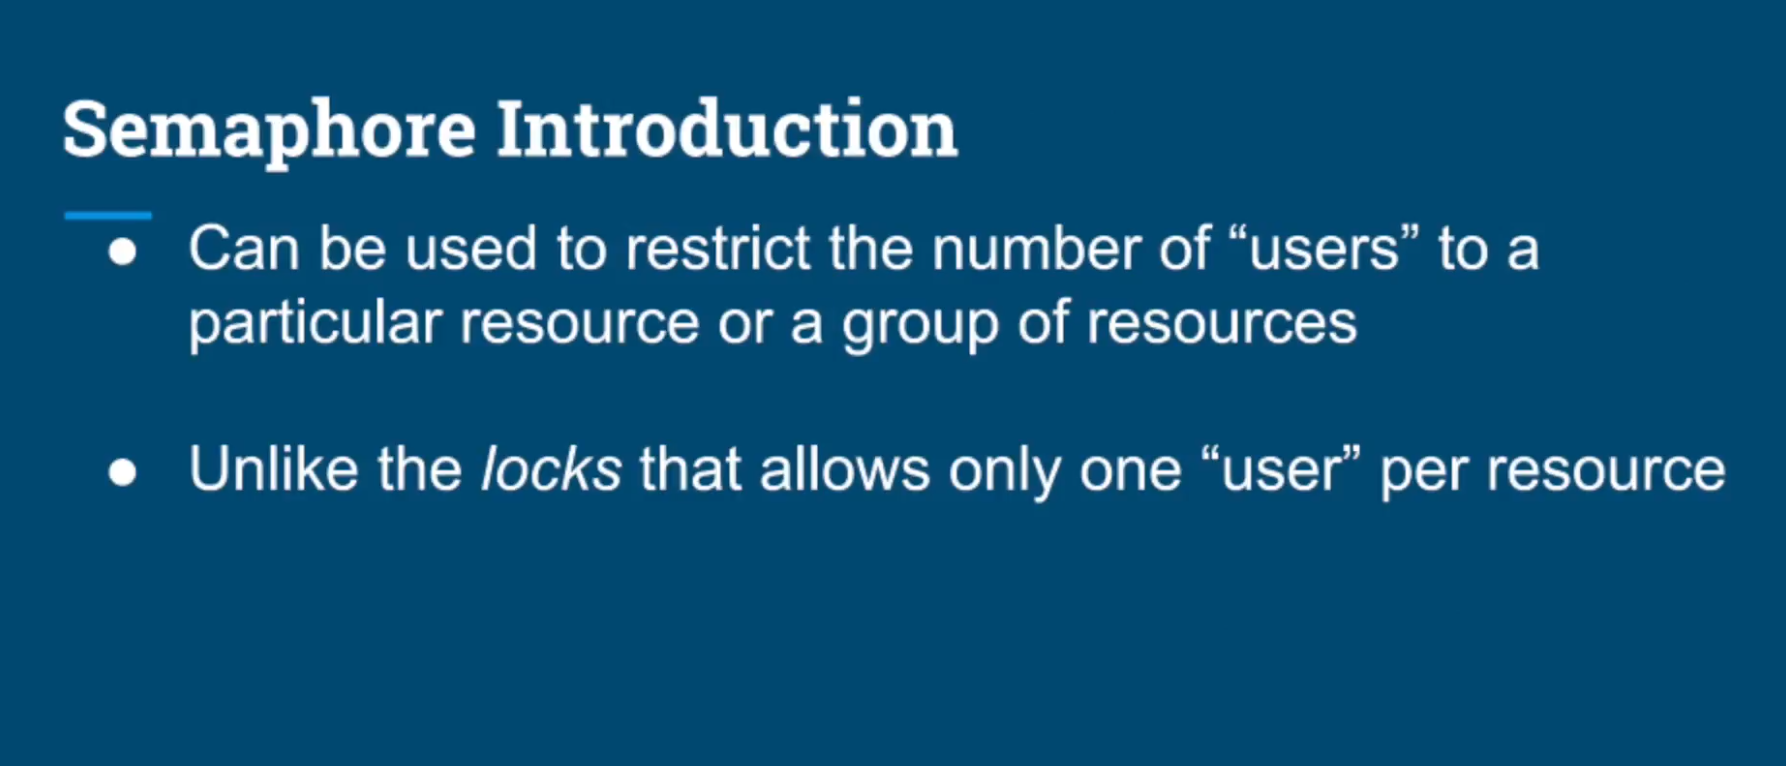
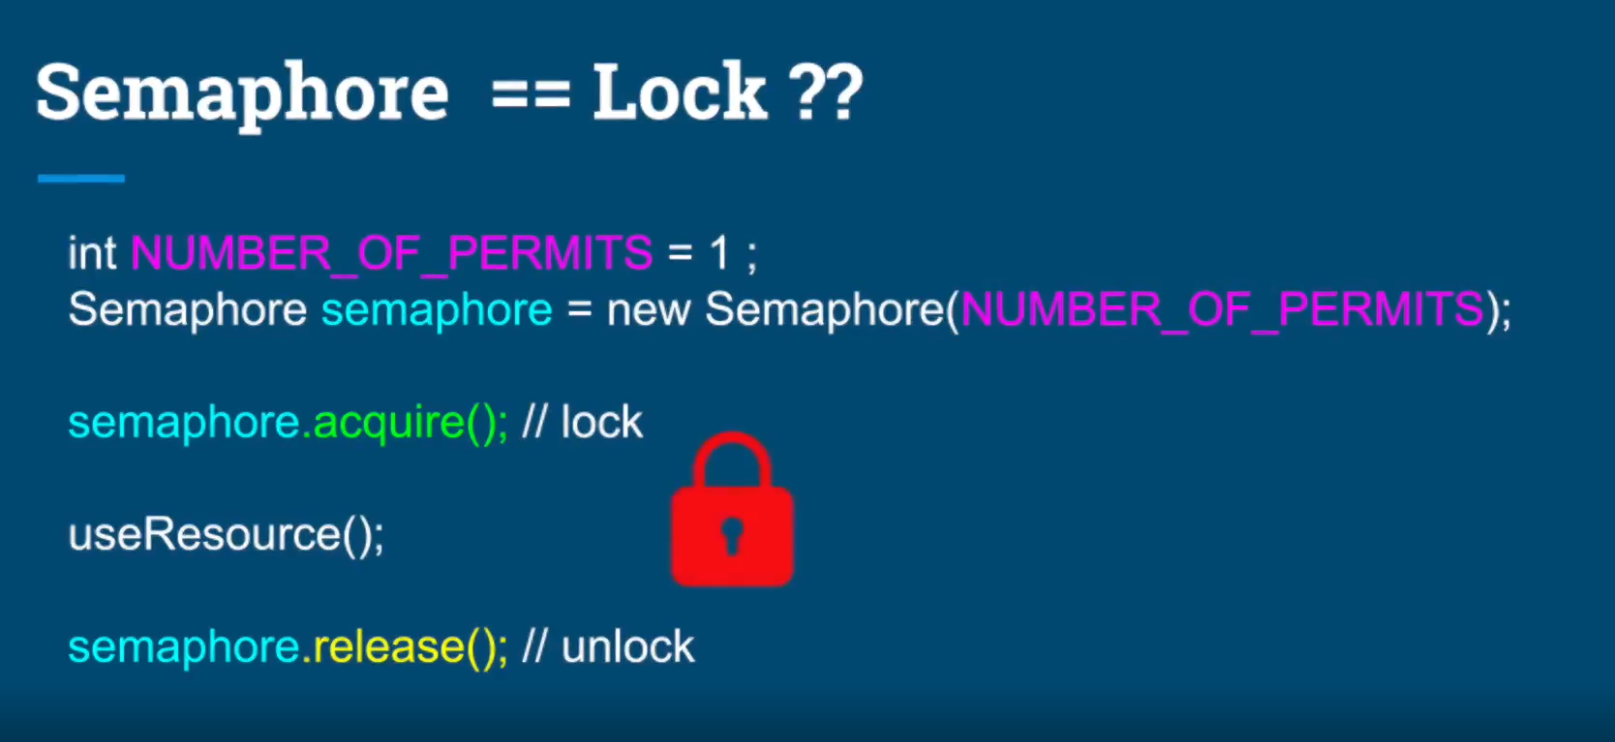
learning using object as condition variable

diff --git a/07-inter-thread-communication/condition-variables-all-purpose-inter-thread-communication/README.md b/07-inter-thread-communication/condition-variables-all-purpose-inter-thread-communication/README.md
@@ -2,3 +2,38 @@
 - Review of inter-thread communication
 - Condition variables - java.util.concurrent.locks.Condition
 - Semaphore as particular case of condition variable.
+
+
+
+## Inter-thread Communication - Semaphore as condition variable
+- Calling the acquire() on a Semaphore is equivalent to checking the condition "Is number of permits >0?";
+- If the condition is not met - thread A goes to sleep until another thread changes the semaphore's state.
+- When thread B calls the release() method, thread A wakes up.
+- Thread A checks the condition "Is number of permits >0?";
+  - If it is, thread A continues to the next instruction.
+
+![img_1.png](img_1.png)
+
+## Inter thread - Creation
+- Condition variables is always associated with a lock
+- The lock ensures atomic check and modification of the shared variables, involved in the condition.
+
+![img.png](img.png)
+
+## Inter thread - Condition.await()
+- void await() - unlock lock, wait until signaled.
+- long awaitNanos(long nanosTimout)- wait no longer than nanosTimeout.
+- boolean await (long time, TimeUnit unit) - wait no longer than time, in given time units.
+- boolean awaitUntil(Date deadline) - wake up before the deadline date.
+- void signal() - wakes up a single thread, waiting on the condition variable.
+- A thread that wakes up has to re-acquire the lock associated with the condition variable.
+- If currently no thread is waiting on the condition variable, the signal method doesn't do anything.
+
+![img_2.png](img_2.png)
+
+# Summary
+- Reviewed some off the iter-thread communication techniques we had learned.
+- Semaphore ass a particular case of condition variable
+- Condition variable:
+  - Condition.await() - suspend the thread, and wait for a state change.
+  - Condition.signal()/signalAll() - wake all waiting threads.

diff --git a/07-inter-thread-communication/semaphore-scable-producer-consumer-implementation/README.md b/07-inter-thread-communication/semaphore-scable-producer-consumer-implementation/README.md
@@ -4,15 +4,32 @@
 - Binary Semaphores
 - Producer Consumer using Semaphores
 
-![img.png](img.png)
-
 # Semaphore - introduction
 - Can be used to restrict the number of "users" to particular resource.
 - Unlike the locks that allows only one "user" per resource.
 - The semaphore can restrict any given number of users to a resource.
 
+# Semaphore - How to Use
+```text
+Semaphore semaphore = new Semaphore(NUMBER_OF_PERMITS) ;
+semaphore.acquire();
+```
 # Semaphore - differences with locks
 - Semaphore doesn't have a notion of owner thread.
+- Semaphore can be released by any thread.
+- Even can be released by a thread that hasn't actually acquired it.
 - Many threads can acquire a permit.
 - The same thread can acquire the semaphore multiple times.
 - The binary semaphore (initialized with 1) is not reentrant.
+
+![img.png](img.png)
+
+![img_1.png](img_1.png)
+
+# Summary
+- Learned a new synchronization tool - the semaphore
+- Semaphore as general case for a lock - permit issuing authority.
+- Can restrict the number of users per critical section/resource.
+- Differences between locks and semaphores
+  - Any thread can release a semaphore ( no ownership).
+- Inter-thread communication forr producer consumer, using semaphore.

diff --git a/07-inter-thread-communication/object-as-condition-variables/README.md b/07-inter-thread-communication/object-as-condition-variables/README.md
@@ -1,0 +1,15 @@
+# Objects ass Condition variables - wait(), notify() and notifyAll()
+## What we learn in this lecture
+- wait(), notify(), notifyAll() for inter-thread communication and signalling
+- Backpressure practical example between a producer and consumer.
+
+![img.png](img.png)
+![img_1.png](img_1.png)
+![img_2.png](img_2.png)
+![img_3.png](img_3.png)
+
+## Summary 
+- Learned another way to communicate between threads, using the wait(), notify(), and notifyAll() methods that each class hass.
+- We learned how to apply it in practice, by implementing a Thread Safe Queue between Consumer and Producer threads.
+- Learned how to implement back pressure to guard agianst OutOfMemoryException.
+- Whenever using a queue to decouple multithreaded components, apply back-pressure and limit the size off the queue.

diff --git a/README.md b/README.md
@@ -1,3 +1,16 @@
+# What I learned in this course:
+- 01 - Introduction
+- 02 - Threading fundamentals- thread creation
+- 03 - Threading fundamentals - thread coordination
+- 04 - Performance Optimization
+- 05 - Data Sharing between Threads
+- 06 - The Concurrency Challenges & Solutions
+- 07 - Advanced locking
+- 09 - Lock-free Algorithms, Data - Structures & Techniques.
+- 10 - Threading models for high performance IO
+- 11 - Virtual threads and high-performance IO
+- 12 - Beyond Multithreading - Final lecturer.
+
 ```mermaid
 classDiagram
     class Runnable
@@ -36,3 +49,4 @@ classDiagram
     HackerThread <|-- DescendingHackerThread
     HackerThread --> Vault : uses
 ```
+
